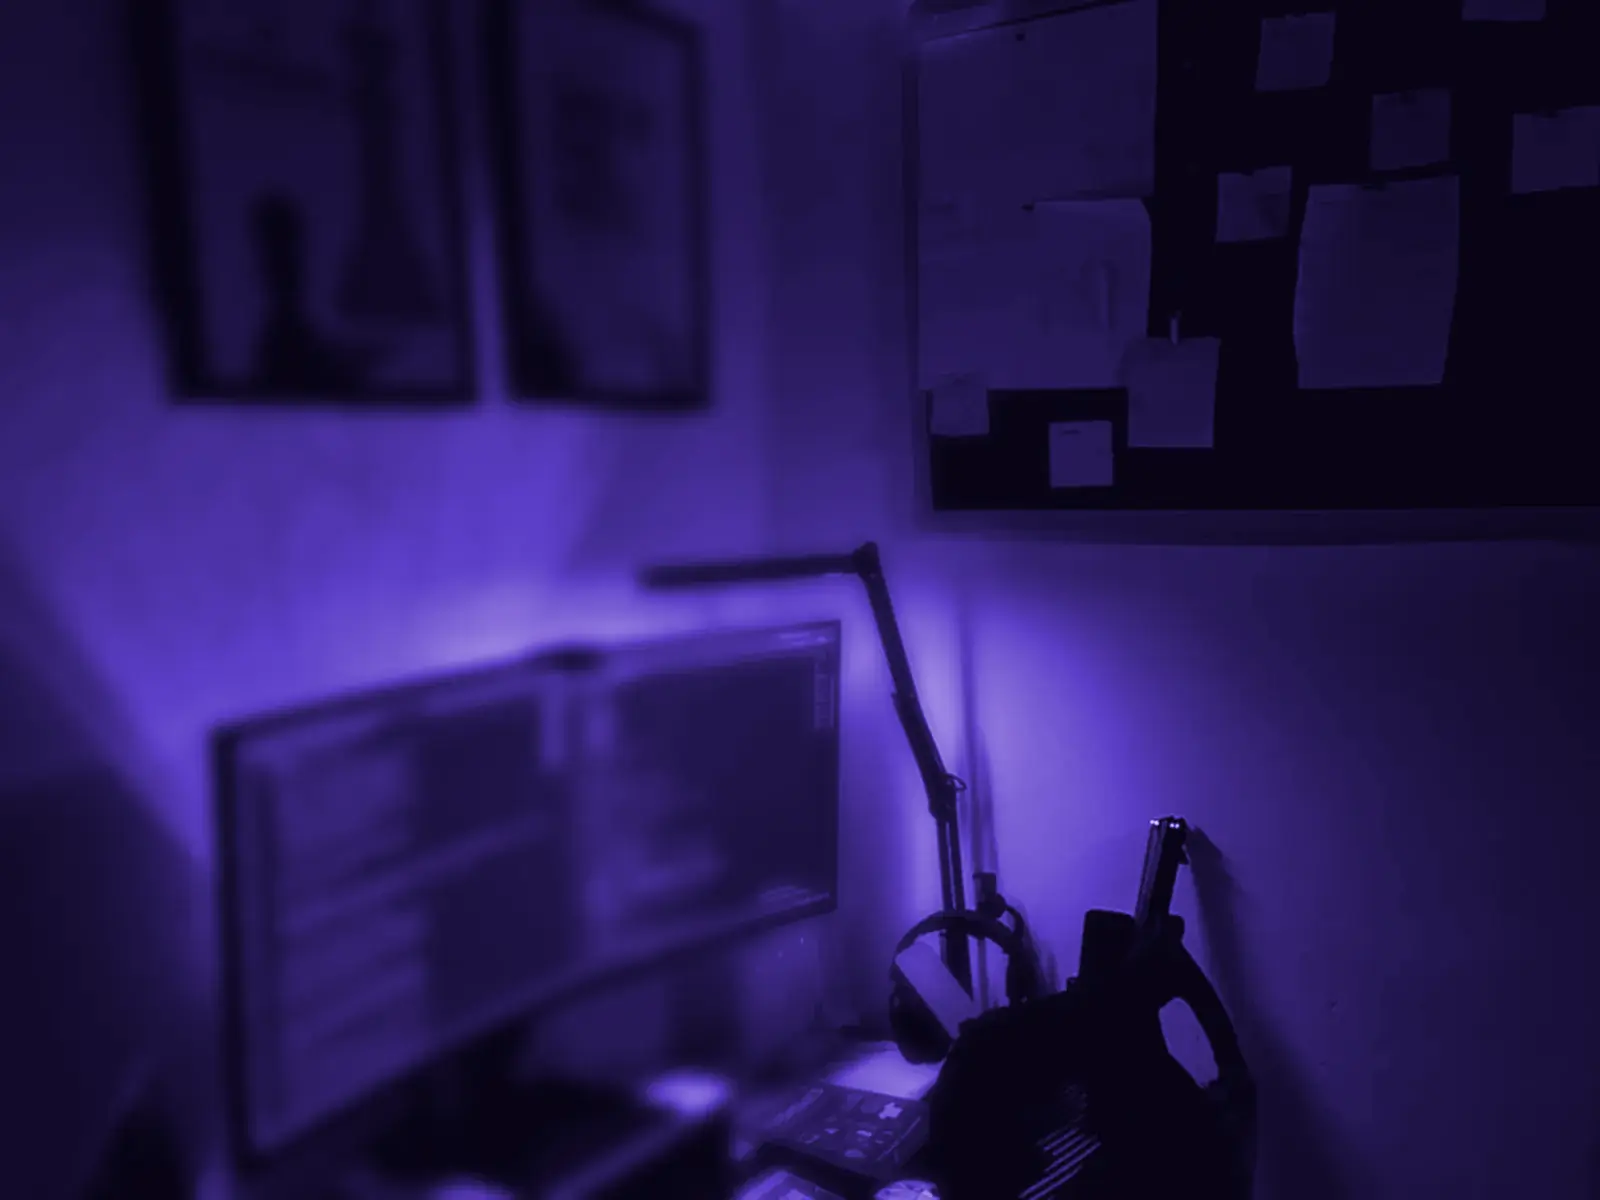
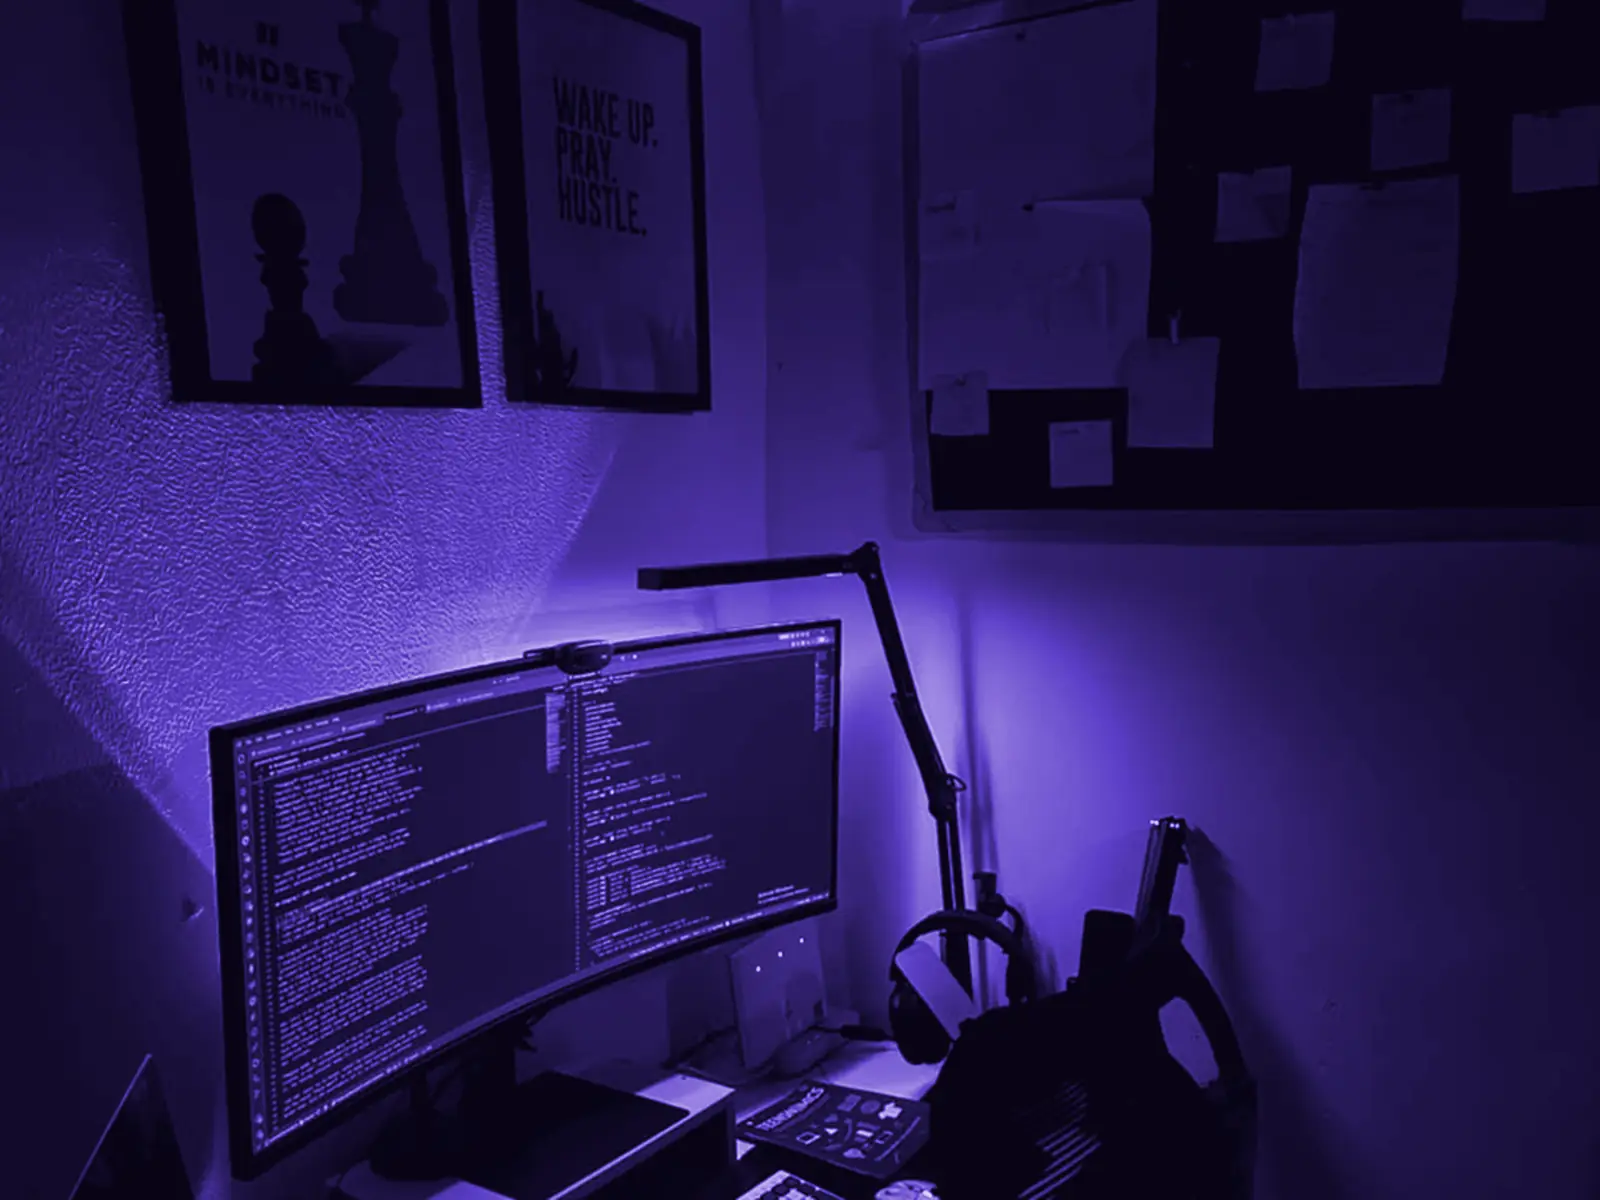
Hero: keep the workspace behind the text, plain background behind the portrait

diff --git a/src/components/Hero.jsx b/src/components/Hero.jsx
@@ -31,8 +31,12 @@ export default function Hero() {
       ref={ref}
       className="relative isolate flex min-h-[min(100svh,980px)] items-center overflow-hidden px-[max(20px,5vw)] pt-32 pb-20 max-lg:pt-28 max-sm:px-[max(22px,6vw)] max-sm:pt-26 max-sm:pb-14"
     >
-      {/* Background: Emmanuel's own desk setup in black and grey; the purple theme tints it. */}
-      <div className="absolute -inset-8 -z-20 transition-transform duration-300 ease-out" style={parallax(-14)}>
+      {/* Background: Emmanuel's own desk setup in black and grey (the purple theme tints it). It sits
+          behind the text only and fades to the page colour before it reaches the portrait. */}
+      <div
+        className="absolute -inset-8 -z-20 transition-transform duration-300 ease-out [mask-image:radial-gradient(ellipse_75%_85%_at_22%_25%,#000_40%,transparent_78%)] max-lg:[mask-image:linear-gradient(180deg,#000_38%,transparent_58%)]"
+        style={parallax(-14)}
+      >
         {/* Two pre-graded versions instead of a CSS blend (which repaints every frame); the purple
             one is lazy, so it only downloads when the purple theme shows it. Phones get the full,
             sharp portrait-orientation photo, since a wide crop squeezed onto a tall screen showed
@@ -46,9 +50,8 @@ export default function Hero() {
           <img src="/hero-bg-purple.webp" alt="" aria-hidden="true" width="1600" height="1200" loading="lazy" decoding="async" className="hidden h-full w-full object-cover object-[30%_40%] max-lg:object-[center_35%] [[data-theme=purple]_&]:block" />
         </picture>
       </div>
-      {/* The photo's left half is pre-blurred in the image file (cheaper than backdrop-filter);
-          this gradient darkens it behind the text while the right half stays sharp. */}
-      <div className="absolute inset-0 -z-10 bg-[linear-gradient(90deg,color-mix(in_srgb,var(--bg)_80%,transparent)_0%,color-mix(in_srgb,var(--bg)_55%,transparent)_48%,transparent_75%)] max-lg:bg-[linear-gradient(180deg,color-mix(in_srgb,var(--bg)_72%,transparent)_0%,color-mix(in_srgb,var(--bg)_55%,transparent)_45%,color-mix(in_srgb,var(--bg)_20%,transparent)_75%,var(--bg)_100%)]"></div>
+      {/* Darkens the photo behind the text so it stays readable. */}
+      <div className="absolute inset-0 -z-10 bg-[linear-gradient(90deg,color-mix(in_srgb,var(--bg)_72%,transparent)_0%,color-mix(in_srgb,var(--bg)_45%,transparent)_55%,transparent_80%)] max-lg:bg-[linear-gradient(180deg,color-mix(in_srgb,var(--bg)_72%,transparent)_0%,color-mix(in_srgb,var(--bg)_55%,transparent)_45%,color-mix(in_srgb,var(--bg)_20%,transparent)_75%,var(--bg)_100%)]"></div>
       <div className="absolute inset-x-0 bottom-0 -z-10 h-40 bg-gradient-to-t from-bg to-transparent"></div>
       <div className="pointer-events-none absolute -top-40 -left-40 -z-10 h-[520px] w-[520px] rounded-full bg-glow opacity-25 blur-[120px]"></div>
 
